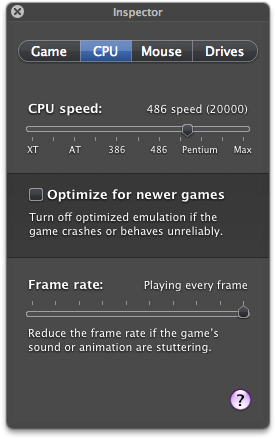
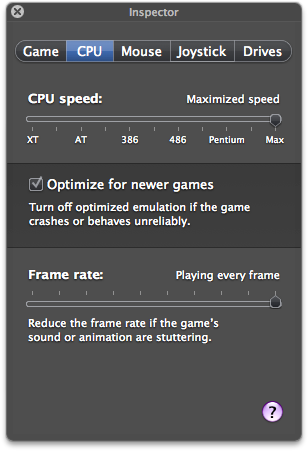
Updated inspector panel screenshots in Boxer Help to match current appearance.

diff --git a/Resources/English.lproj/BoxerHelp/pages/drives.html b/Resources/English.lproj/BoxerHelp/pages/drives.html
@@ -13,7 +13,7 @@
 			<a name="adding-and-removing-drives"></a>
 			<h1>Adding and removing DOS drives</h1>
 		
-			<img src="../images/inspector-drives.png" alt="" width="276" height="439" class="floated-right">
+			<img src="../images/inspector-drives.png" alt="" width="308" height="451" class="floated-right">
 			
 			<p>Press <kbd>Cmd ⌘</kbd>+<kbd>I</kbd> to bring up the <a href="help:runscript=BoxerHelp/shared/scripts/openinspector.scpt string='Drives'" rel="application-window">Drives Inspector</a>. This panel shows what drives are currently available in DOS, and lets you add and remove drives.</p>
 		

diff --git a/Resources/English.lproj/BoxerHelp/pages/adjusting-speed.html b/Resources/English.lproj/BoxerHelp/pages/adjusting-speed.html
@@ -12,7 +12,7 @@
 		<a name="adjusting-game-speed"></a>
 		<h1>When a game runs too fast or too slow</h1>
 		
-		<img src="../images/inspector-cpu.png" alt="" width="276" height="439" class="floated-right">
+		<img src="../images/inspector-cpu.png" alt="" width="308" height="451" class="floated-right">
 		
 		<p>While playing, press <kbd>Cmd ⌘</kbd>+<kbd>I</kbd> to bring up the <a href="help:runscript=BoxerHelp/shared/scripts/openinspector.scpt string='CPU'" rel="application-window">CPU Inspector</a> and <strong>adjust the CPU speed slider</strong> until the game runs at a suitable speed.</p>
 		

diff --git a/Resources/English.lproj/BoxerHelp/pages/playing.html b/Resources/English.lproj/BoxerHelp/pages/playing.html
@@ -42,7 +42,8 @@
 			<a name="tweak-settings"></a>
 			<h2><span class="step">3</span> Tweak game settings (if you need to)</h2>
 			
-			<img src="../images/inspector-cpu-mouse.png" alt="" width="240" class="floated-right">
+			<img src="../images/inspector-cpu.png" alt="" width="154" class="floated-left">
+			<img src="../images/inspector-mouse.png" alt="" width="154" class="floated-right">
 			
 			<p>For some games you may need to <strong>tweak the CPU speed or mouse sensitivity</strong> to get them running just right.</p>
 			

diff --git a/Resources/English.lproj/BoxerHelp/pages/swapping-cds.html b/Resources/English.lproj/BoxerHelp/pages/swapping-cds.html
@@ -13,7 +13,7 @@
 		<h1>Swapping CDs in multi-CD games</h1>
 		
 		<section>
-		<img src="../images/inspector-drives.png" alt="" width="276" height="439" class="floated-right">
+		<img src="../images/inspector-drives.png" alt="" width="308" height="451" class="floated-right">
 		<ol class="steps">
 			<li>Press <kbd>Cmd ⌘</kbd>+<kbd>I</kbd> to bring up the <a href="help:runscript=BoxerHelp/shared/scripts/openinspector.scpt string='Drives'" rel="application-window">Drives Inspector</a>.</li>
 			
